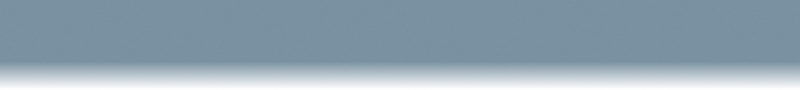
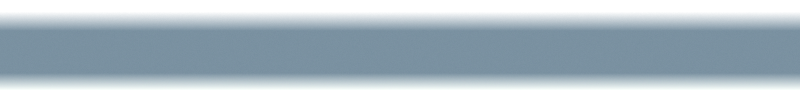
Polished Homepage. Down arrow changed and scrollable. Added smoother gradient, adjsuted background image order.

diff --git a/JabberBCIT/JabberBCIT/Content/Home.less b/JabberBCIT/JabberBCIT/Content/Home.less
@@ -29,6 +29,14 @@ h3{
     text-align: justify;
 }
 
+.topContent{
+    color: #777;
+    background-color: white;
+    text-align: center;
+    padding: 4% 5%;
+    text-align: justify;
+}
+
 .caption {
     position: absolute;
     left: 0;
@@ -54,16 +62,29 @@ h3{
     border-radius: 5px;
     box-shadow: 0 0 12px black;
 }
-
+/*
 .image-downarrow{
     display: block;
     text-align: center;
     position: absolute;
-    bottom: 5%;
+    bottom: 1.5%;
     left: 47.5%;
     width: 5%;
-    height: 5%;
+    height: 10%;
     z-index: 5;
+}
+*/
+
+.downArrow{	
+    display: block;
+    text-align: center;
+    position: absolute;
+    bottom: 1.5%;
+    left: 47.5%;
+    width: 5%;
+    height: 10%;
+    z-index: 5;
+    background: url('../../Images/arrow_downward_white_24dp_2x.png') no-repeat center;
 }
 
 .image-downarrow-back{
@@ -83,36 +104,5 @@ h3{
 }
 
 .content-headers{
-    text-shadow: 2px 2px 10px black;
-}
-
-
-.image-content-left{ // WIP
-    width: 35%;
-    height: 35%;
-    display: block;
-    float: left;
-    left: 0px;
-}
-
-.image-content-right{ // WIP
-    width: 45%;
-    display: block;
-    position: relative;
-    right: 0px;
-}
-
-.para-content-left{ // WIP
-    width: 45%;
-    display: block;
-    position: relative;
-    left: 0px;
-}
-
-.para-content-right{ // WIP
-    width: 45%;
-    display: block;
-    position: relative;
-    float: right;
-    right: 0px;
+    text-shadow: 2px 2px 20px grey;
 }

diff --git a/JabberBCIT/JabberBCIT/Scripts/site.js b/JabberBCIT/JabberBCIT/Scripts/site.js
@@ -16,3 +16,10 @@ $('a.back-to-top').click(function () {
     }, 700);
     return false;
 });
+
+$('a.downArrow').click(function () {
+    $('html, body').animate({
+        scrollTop: 400
+    }, 400);
+    return false;
+});
